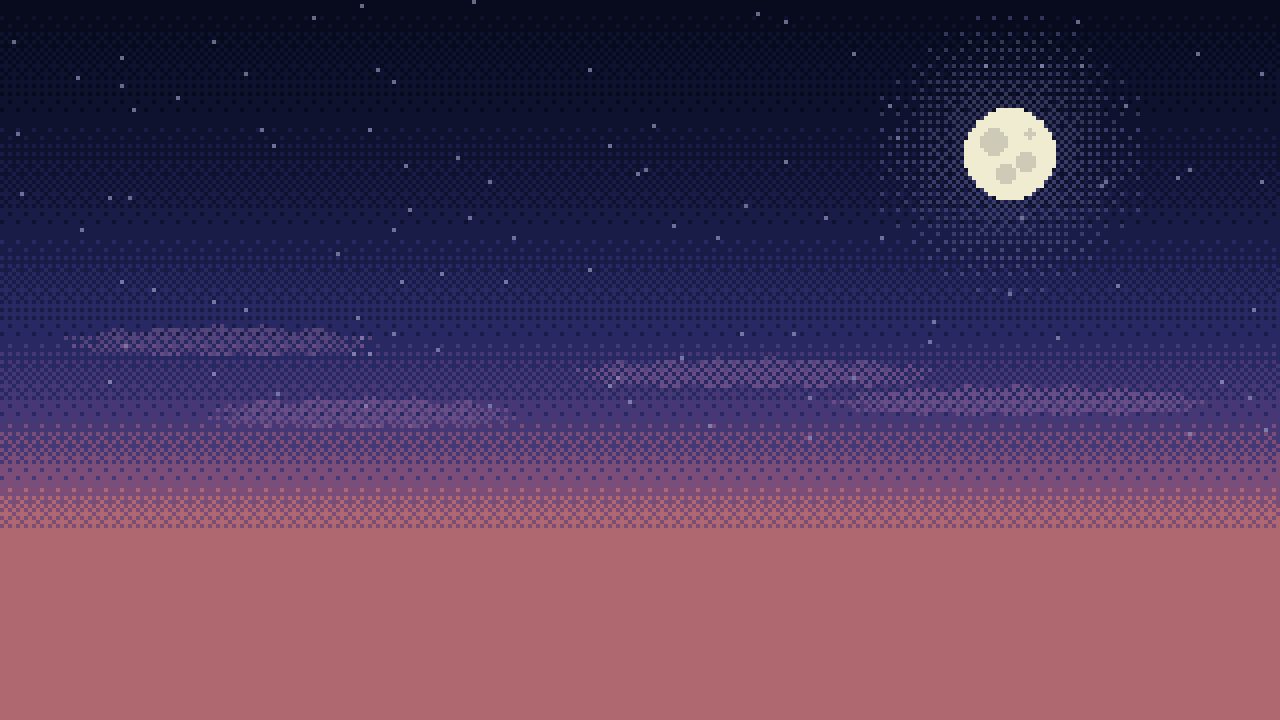
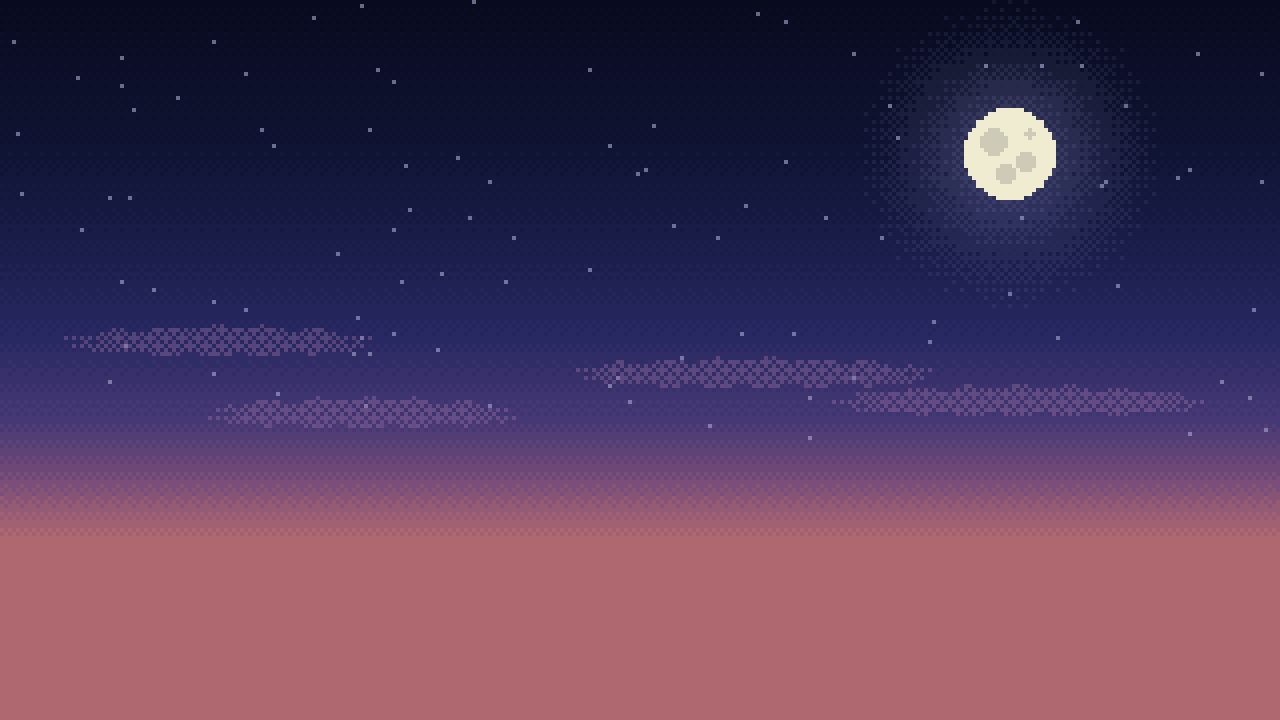
smoothing

Changed region(s): [[0.0, 0.5806, 1.0, 0.7333], [0.6875, 0.0611, 0.875, 0.3667]]

diff --git a/tools/make_title_bg.py b/tools/make_title_bg.py
@@ -28,6 +28,8 @@ R = random.Random(2026)
 
 BAYER = [[0, 8, 2, 10], [12, 4, 14, 6], [3, 11, 1, 9], [15, 7, 13, 5]]
 
+SKY_STEPS = 4  # tingkat perantara antar warna langit & air (1 = dithering kasar seperti dulu)
+MIST_STEPS = 5  # tingkat kepekatan kabut
 SKY = [(8, 10, 30), (14, 18, 46), (24, 28, 70), (40, 40, 98), (70, 56, 116), (122, 78, 120), (176, 104, 112)]
 FAR0, FAR1, MIST = (44, 46, 100), (58, 60, 120), (86, 78, 136)
 VOLC_RIM = (74, 70, 138)
@@ -60,6 +62,16 @@ def dither_pick(x, y, t):
     return t * 16 > BAYER[y % 4][x % 4] + 0.5
 
 
+def fine_mix(a, b, t, x, y, steps=4):
+    """Campuran a->b sebesar t dengan `steps` tingkat perantara + dithering di antara tingkat yang
+    bersebelahan. Pola titik tetap ada (pixel art) tapi selisih warnanya kecil, jadi terlihat halus."""
+    q = max(0.0, min(1.0, t)) * steps
+    lvl = int(q)
+    if lvl < steps and dither_pick(x, y, q - lvl):
+        lvl += 1
+    return mix(a, b, lvl / float(steps))
+
+
 # ---------------------------------------------------------------- langit
 
 def sky_layer(bake_bright=True):
@@ -73,7 +85,7 @@ def sky_layer(bake_bright=True):
             k += 1
         t = min(1.0, max(0.0, (y - stops[k]) / (stops[k + 1] - stops[k])))
         for x in range(W):
-            px(im, x, y, SKY[k + 1] if dither_pick(x, y, t) else SKY[k])
+            px(im, x, y, fine_mix(SKY[k], SKY[k + 1], t, x, y, SKY_STEPS))
     # Pendar bulan: cincin dithering yang makin tipis.
     mx, my = 252, 38
     for y in range(0, 100):
@@ -81,9 +93,8 @@ def sky_layer(bake_bright=True):
             dist = math.hypot(x - mx, y - my)
             if 11 < dist < 40:
                 t = (1 - (dist - 11) / 29) ** 1.6 * 0.55
-                if dither_pick(x, y, t):
-                    base = im.getpixel((x, y))[:3]
-                    px(im, x, y, mix(base, (120, 120, 170), 0.35))
+                base = im.getpixel((x, y))[:3]
+                px(im, x, y, fine_mix(base, (120, 120, 170), t * 0.35 / 0.55 * 1.0, x, y, SKY_STEPS * 2))
     # Bintang: kebanyakan redup, beberapa terang, segelintir berbentuk silang.
     for _ in range(170):
         x, y = R.randrange(W), R.randrange(0, 112)
@@ -159,12 +170,22 @@ def far_layer(bake_smoke=True):
             for xx in range(int(cx - r), int(cx + r) + 1):
                 if math.hypot(xx - cx, yy - cy) <= r and dither_pick(xx, yy, 0.5 * (1 - k / 20.0)):
                     px(im, xx, yy, (92, 86, 140))
-    # Kabut di kaki gunung.
-    for y in range(118, 140):
-        t = (y - 118) / 22.0
+    # Kabut di kaki gunung: menebal halus ke bawah sampai dasar lapisan (tanpa tepi mendatar).
+    # Di atas langit kosong kabut dibuat semi-transparan bertingkat, di atas gunung dicampur warnanya.
+    for y in range(116, 152):
+        t = min(1.0, (y - 116) / 24.0) * 0.75
         for x in range(W):
-            if dither_pick(x, y, t * 0.75):
-                px(im, x, y, MIST)
+            q = t * MIST_STEPS
+            lvl = int(q)
+            if lvl < MIST_STEPS and dither_pick(x, y, q - lvl):
+                lvl += 1
+            if lvl == 0:
+                continue
+            base = im.getpixel((x, y))
+            if base[3] == 0:
+                px(im, x, y, MIST + (int(255 * lvl / MIST_STEPS),))
+            else:
+                px(im, x, y, mix(base[:3], MIST, lvl / float(MIST_STEPS)))
     return im
 
 
@@ -328,7 +349,7 @@ def mid_layer(bake_water=True):
     for y in range(LAKE_Y, H):
         t = (y - LAKE_Y) / float(H - LAKE_Y)
         for x in range(W):
-            px(im, x, y, LAKE1 if dither_pick(x, y, (1 - t) * 0.5) else LAKE0)
+            px(im, x, y, fine_mix(LAKE0, LAKE1, (1 - t) * 0.5, x, y, SKY_STEPS))
     if not bake_water:
         d.line([(0, LAKE_Y), (W, LAKE_Y)], fill=(40, 60, 96))
         return im, turbine_hub
